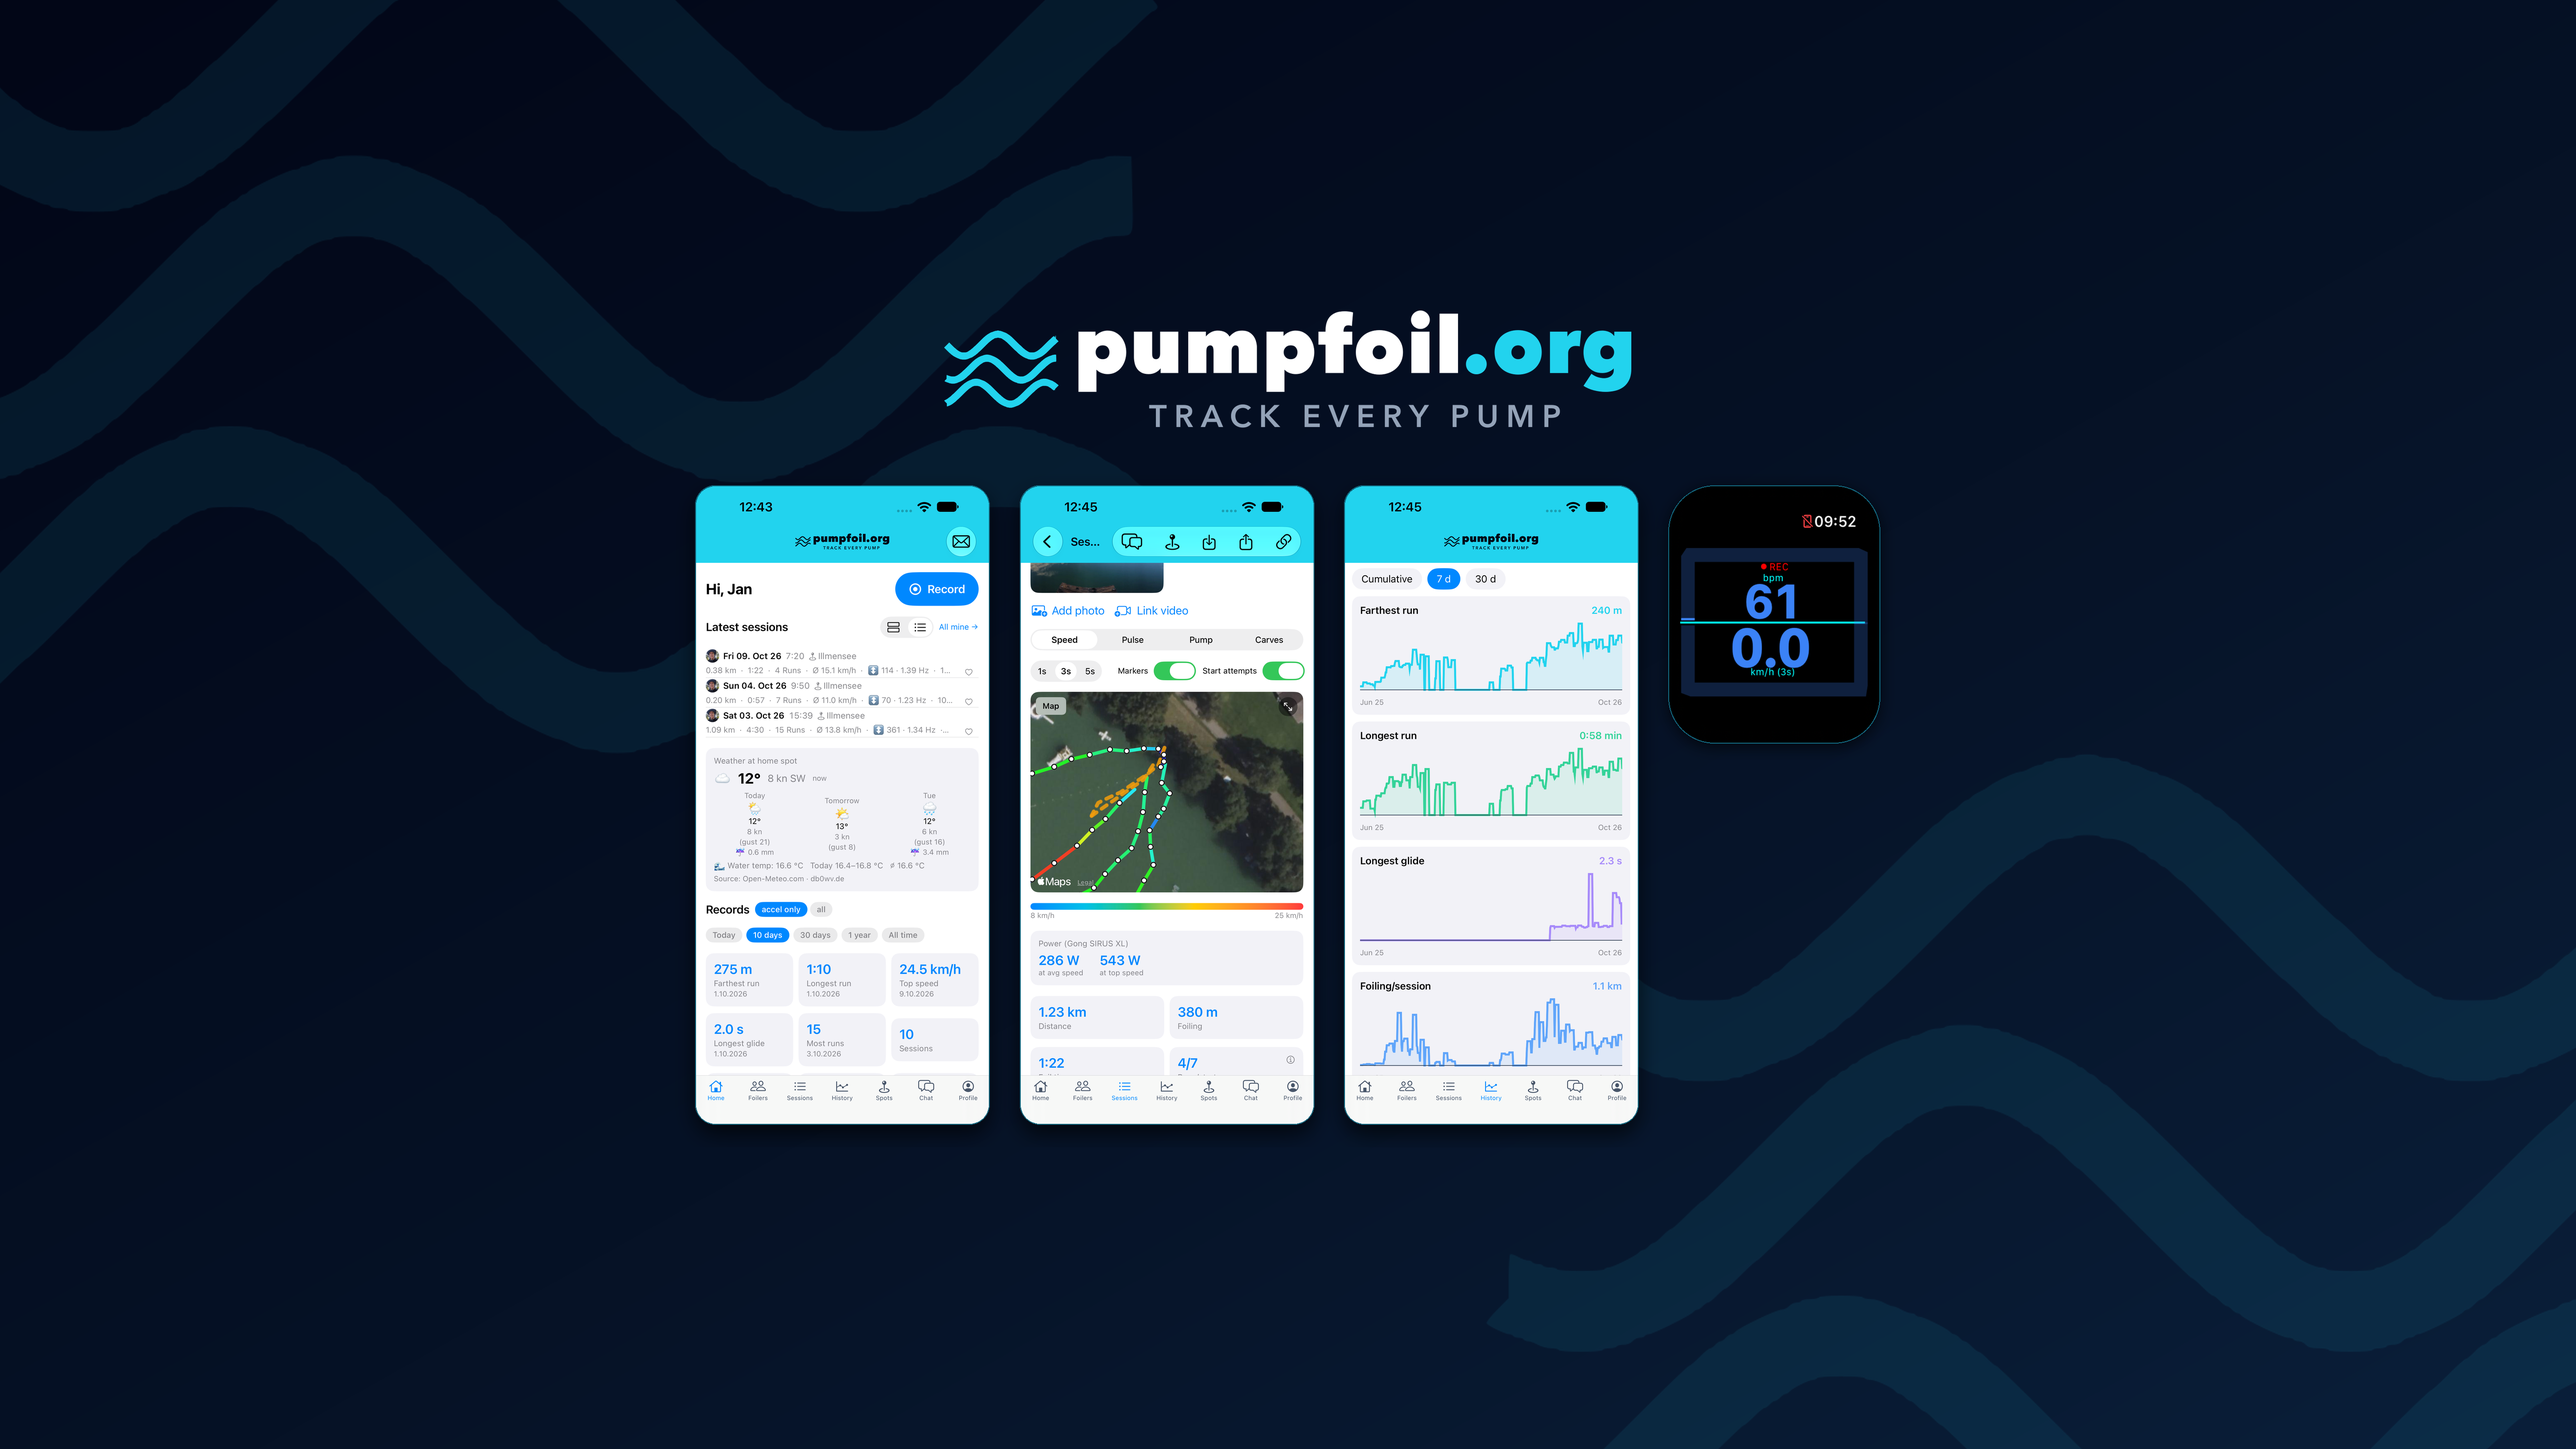
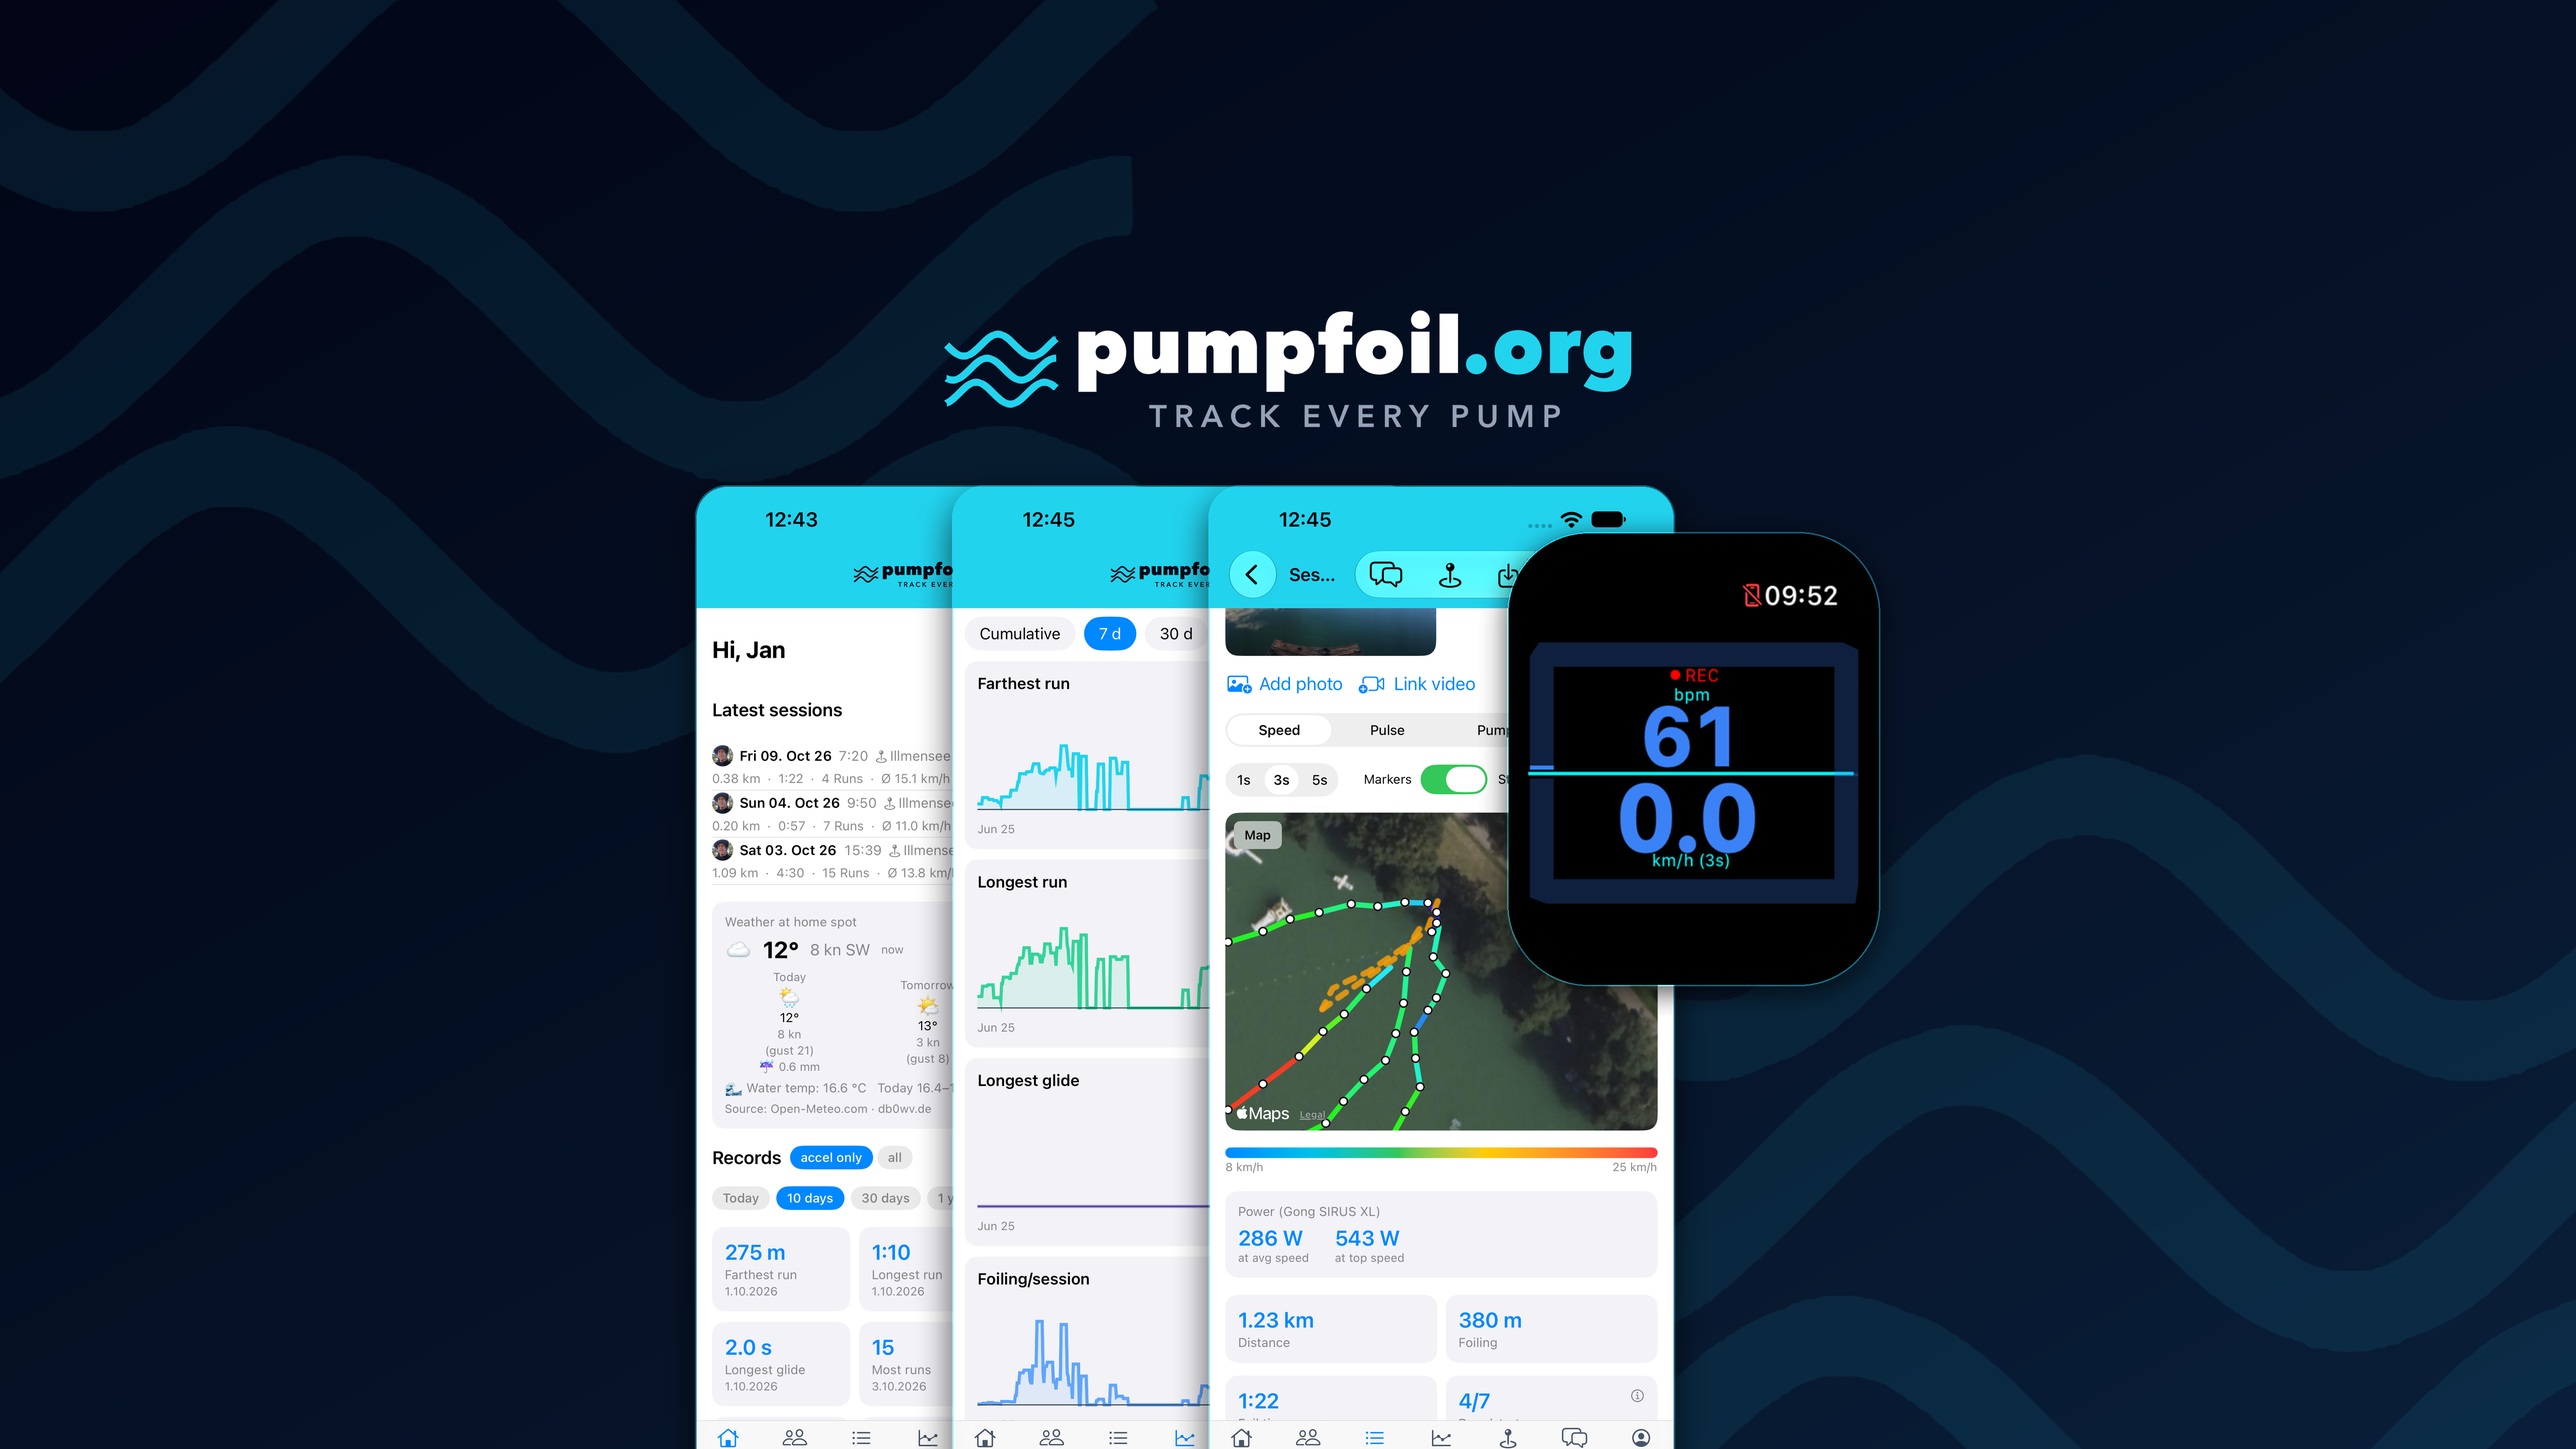
App-Store-Kopfzeile: Screens als Stapel linksbuendig, Uhr oben rechts darueber bis zum Spaltenrand
Claude-Session: https://claude.ai/code/session_01SwpsW3PioXLbF9Wo2iJrfq

Changed region(s): [[0.2487, 0.3119, 0.746, 1.0]]

diff --git a/brand/master/appstore_header.py b/brand/master/appstore_header.py
@@ -96,18 +96,20 @@ def bauen(W, H):
     s = spalte * 0.58 / block.width
     block = block.resize((round(block.width * s), round(block.height * s)), Image.LANCZOS)
     base.alpha_composite(block, ((W - block.width) // 2, int(H * LOGO_Y - block.height / 2)))
-    # Darunter: drei Screens + Uhr nebeneinander, Oberkanten buendig
-    gap = spalte * 0.025
-    uhr_anteil = 0.72                          # Uhr-Breite relativ zur Screen-Breite
-    sb = (spalte - 3 * gap) / (3 + uhr_anteil)
-    teile = [(Image.open(os.path.join(IOS, f"{n:02d}.png")), sb, 0.07) for n in SCREENS]
-    teile.append((Image.open(UHR), sb * uhr_anteil, 0.22))
-    x = (W - spalte) / 2
+    # Darunter: die Screens als gestaffelter Stapel, linksbuendig in der Spalte, der rechte vorn;
+    # die Uhr liegt oben rechts UEBER dem Stapel und reicht bis zum rechten Spaltenrand (Jan:
+    # „mach die Uhr ruhig ueber den screenshot stack … stack kann linksbuendig sein und die Uhr
+    # dann oben etwas ueberlappen bis zum rechten rand").
+    versatz, uhr_anteil, uhr_drin = 0.55, 0.80, 0.45   # Staffelung, Uhr/Screen-Breite, Ueberlappung
+    sb = spalte / (1 + 2 * versatz + uhr_anteil * (1 - uhr_drin))
+    links = (W - spalte) / 2
     oben = H * SCREENS_Y
-    for img, b, r in teile:
-        g, pad = gerahmt(img, int(b), r)
-        base.alpha_composite(g, (int(x - pad), int(oben - pad)))
-        x += b + gap
+    for k, n in enumerate((SCREENS[0], SCREENS[2], SCREENS[1])):   # Start, Fortschritt, Karte vorn
+        g, pad = gerahmt(Image.open(os.path.join(IOS, f"{n:02d}.png")), int(sb))
+        base.alpha_composite(g, (int(links + k * versatz * sb - pad), int(oben - pad)))
+    ub = sb * uhr_anteil
+    g, pad = gerahmt(Image.open(UHR), int(ub), 0.22)
+    base.alpha_composite(g, (int(links + spalte - ub - pad), int(oben + sb * 0.10 - pad)))
     return base.convert("RGB")
 
 
